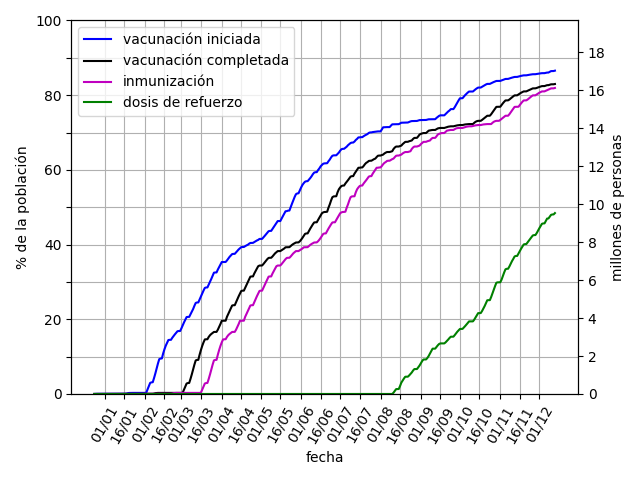
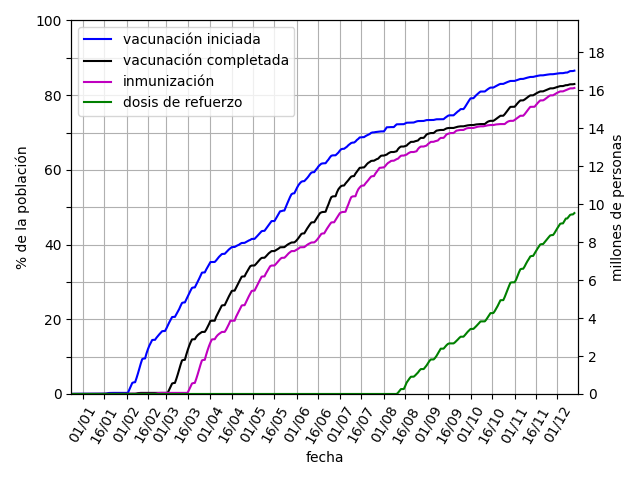
xlim

Changed region(s): [[0.0938, 0.0625, 0.9062, 0.9375]]

diff --git a/vacunacion.py b/vacunacion.py
@@ -240,9 +240,11 @@ def avance_fecha(plot=False, show=True):
         fig = plt.figure(1)
         fig.clf()
         ax = fig.add_subplot(111)
-        
+       
+        pfecha = [np.datetime64(f) for f in fecha]
+ 
         for name, fmt in zip(tab.colnames[-4:], ('b-', 'k-', 'm-', 'g-')):
-            ax.plot(fecha, tab[name], fmt, label=name)
+            ax.plot(pfecha, tab[name], fmt, label=name)
 
         ax.set_ylabel('% de la población')
         ax.set_xlabel('fecha')
@@ -252,7 +254,8 @@ def avance_fecha(plot=False, show=True):
         xticklabels = [f"{f[8:10]}/{f[5:7]}" for f in xticks]
         ax.set_xticks(xticks)
         ax.set_xticklabels(xticklabels, rotation=60)
-
+        today = np.datetime64(datetime.now())
+        ax.set_xlim(pfecha[0], today)
         yticks = list(range(0,110,10))
         yticklabels = [str(yt) if not yt % 20 else '' for yt in yticks]
         ax.set_yticks(yticks)
